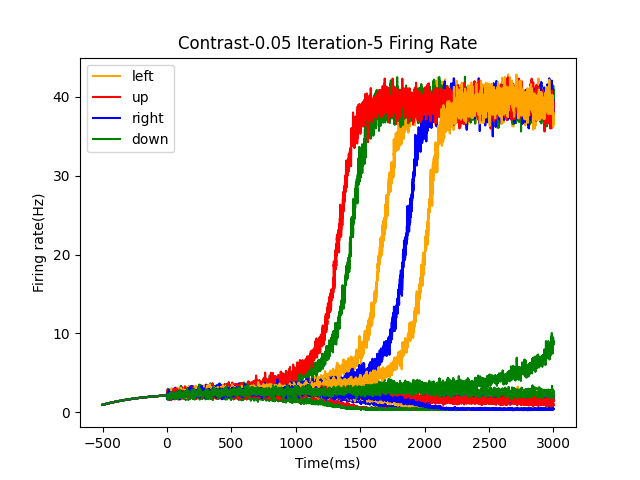
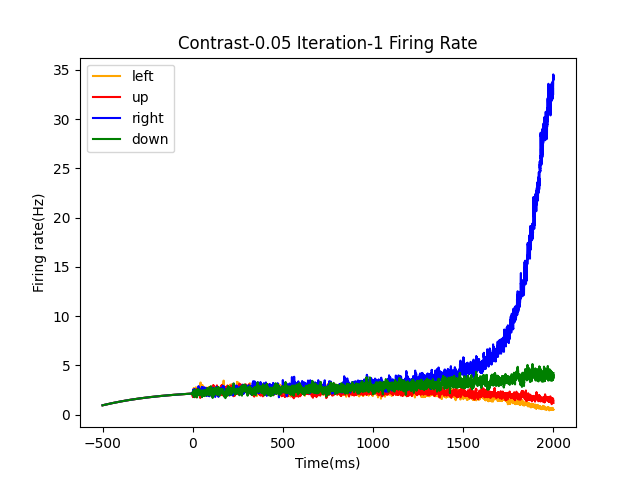
update

diff --git a/network/energy_motion_main.py b/network/energy_motion_main.py
@@ -11,8 +11,10 @@ from scipy.optimize import curve_fit
 contrast = 0.99
 sum_plot=0
 #3 decision with smoothing
-
-iter=1
+cov=True
+check=False
+check_reverse=False
+iter=100
 
 mat = scipy.io.loadmat('motionEnergy.mat')
 data= mat['motionEnergy']
@@ -51,29 +53,30 @@ def convolve(x,covk):
 def input_function(R_max, c_1,c_2,cprime):
     ratio = objective([0 + x for x in range(350)], R_max, c_1,c_2)
     right = cprime*ratio*0.9*60
-
-
-    cov_c = np.asarray([0.1, 0.097, 0.089, 0.083, 0.08, 0.076, 0.088, 0.089, 0.092, 0.1])
+    left = cprime * (1 - ratio) * 0.9 * 60
+    if cov==True:
+      cov_c = np.asarray([0.1, 0.097, 0.089, 0.083, 0.08, 0.076, 0.088, 0.089, 0.092, 0.1])
     #left = cprime * (1 - ratio) * 0.9 * 60
 
-    right = np.convolve(right, cov_c, 'same')
-    for i in range(5):
-        right[i]=right[5]
-        right[len(right)-i-1]=right[len(right)-6]
-    left = cprime * (1 - ratio) * 0.9 * 60
-    for i in range(80):
-        left[i+1]=left[1]+0.1
+      right = np.convolve(right, cov_c, 'same')
 
-    for i in range(100):
-        left[60+i]=left[200]
+      for i in range(5):
+          right[i] = right[5]
+          right[len(right) - i - 1] = right[len(right) - 6]
+
+      #for i in range(80):
+      #    left[i] = left[0]
+
+      #for i in range(100):
+      #    left[60 + i] = left[200]
 
     up = cprime*0.05*(np.zeros(left.shape)+1)*60
     down = cprime*0.05*(np.zeros(left.shape)+1)*60
-    print(right)
+    #print(right)
     return left,right,up,down
 
 hue = ['orange', 'red', 'blue', 'green']
-plt.figure
+
 def tuningc(degree, cprime):
     realdegree = 0
     r0 = 20
@@ -82,20 +85,25 @@ def tuningc(degree, cprime):
     sigma = 40
     v = r0 + cprime * (-r1 + r2 * math.e ** (-(degree - realdegree) ** 2 / (sigma ** 2)))
     return v
+
 left,right,up,down =input_function(R_max, c_1,c_2,0.05)
 #print(input_function(R_max,c_1,c_2,0.99))
-plt.plot([0 + x for x in range(350)], left, color=hue[0], label='left')
-plt.plot([0 + x for x in range(350)], up, color=hue[1],label='up')
-plt.plot([0 + x for x in range(350)], right, color=hue[2] ,label='right')
-plt.plot([0 + x for x in range(350)], down, color=hue[3] ,label='down')
-plt.xlabel('Time')
-plt.ylabel('Input')
+plt.figure
+
+fig, axs = plt.subplots(3)
+fig.set_size_inches(10.5, 18.5)
+axs[0].plot([0 + x for x in range(350)], left, color=hue[0], label='left')
+axs[0].plot([0 + x for x in range(350)], up, color=hue[1],label='up')
+axs[0].plot([0 + x for x in range(350)], right, color=hue[2] ,label='right')
+axs[0].plot([0 + x for x in range(350)], down, color=hue[3] ,label='down')
+
+axs[0].set(xlabel='x-label', ylabel='y-label')
 # plt.ylim(0,20)
 # plt.xlim(-600,750)
 # plt.text(-125, 16, 'Threshold')
-plt.legend()
-plt.savefig('./figs/input.png')
-plt.show()
+#plt.legend()
+#plt.savefig('./figs/input.png')
+#plt.show()
 
 a = 270
 b = 108
@@ -109,7 +117,7 @@ tauampa = 2 * 10 ** -3
 
 Je = 0.3103
 Jot = -0.007
-Jop = -0.048
+Jop = -0.057
 
 (J11,J12,J13,J14) = (Je,Jot,Jop,Jot)
 (J21,J22,J23,J24) = (Jot,Je,Jot,Jop)
@@ -200,7 +208,7 @@ def experiment(cprime):
                  + Inoise4[index]
 
 
-        else:
+        else :
             x1 = J11 * S1[index] + J12 * S2[index] + J13 * S3[index] + J14 * S4[index] + I0
 
             x2 = J21 * S1[index] + J22 * S2[index] + J23 * S3[index] + J24 * S4[index] + I0
@@ -250,34 +258,107 @@ def smoothing(data):
     return smoothed_data
 
 
-plt.figure
+
 hue = ['orange', 'red', 'blue', 'green']
 
 
 for cprime in [contrast]:
   if sum_plot==0:
+    from scipy.special import softmax
+
+    left_con = []
+    up_con = []
+    right_con = []
+    down_con = []
     for i in range(iter):
+
         print(i)
         result = experiment(cprime)
         result = np.asarray(result)
+
+        print(result.shape)
+        result1=result[:,:5000]
+        result2=result[:,5000:]
+
+        for idd in range(4):
+             result2[idd]=smoothing(result2[idd])
+        result=np.concatenate((result1, result2), axis=1)
+        if check==True:
+            if contrast == 0.99:
+                if result[0, 24000] > 5:
+                    continue
+        if check_reverse == True:
+            if contrast == 0.99:
+                if result[0, 24000] <=5:
+                    continue
+
+        print(result.shape)
         hue = ['orange', 'red', 'blue', 'green']
         if (i == 0):
-            plt.plot(time * 1000, result[0], color=hue[0], label='left')
-            plt.plot(time * 1000, result[1], color=hue[1], label='up')
-            plt.plot(time * 1000, result[2], color=hue[2], label='right')
-            plt.plot(time * 1000, result[3], color=hue[3], label='down')
+            axs[1].plot(time * 1000, result[0], color=hue[0], label='left')
+            axs[1].plot(time * 1000, result[1], color=hue[1], label='up')
+            axs[1].plot(time * 1000, result[2], color=hue[2], label='right')
+            axs[1].plot(time * 1000, result[3], color=hue[3], label='down')
         else:
 
-            plt.plot(time * 1000, result[0], color=hue[0])
-            plt.plot(time * 1000, result[1], color=hue[1])
-            plt.plot(time * 1000, result[2], color=hue[2])
-            plt.plot(time * 1000, result[3], color=hue[3])
-    plt.xlabel('Time(ms)')
-    plt.ylabel('Firing rate(Hz)')
-    plt.title('Contrast-' + str(cprime) + ' Iteration-' + str(iter) + ' Firing Rate')
+            axs[1].plot(time * 1000, result[0], color=hue[0])
+            axs[1].plot(time * 1000, result[1], color=hue[1])
+            axs[1].plot(time * 1000, result[2], color=hue[2])
+            axs[1].plot(time * 1000, result[3], color=hue[3])
+        result_softmax = softmax(result, axis=0)
+
+        left_con.append(result_softmax[0])
+        up_con.append(result_softmax[1])
+        right_con.append(result_softmax[2])
+        down_con.append(result_softmax[3])
+
+
+    #plt.xlabel('Time(ms)')
+    #plt.ylabel('Firing rate(Hz)')
+    axs[1].set(xlabel='Time(ms)', ylabel='Time(ms)')
+    #plt.title('Contrast-' + str(cprime) + ' Iteration-' + str(iter) + ' Firing Rate')
     # plt.text(-125, 16, 'Threshold')
+
+
+
+
+
+
+
+    left_con = np.asarray(left_con)
+    left_mean = left_con.mean(axis=0)
+    left_var = left_con.var(axis=0)
+
+    right_con = np.asarray(right_con)
+    right_mean = right_con.mean(axis=0)
+    right_var = right_con.var(axis=0)
+
+    up_con = np.asarray(up_con)
+    up_mean = up_con.mean(axis=0)
+    up_var = up_con.var(axis=0)
+
+    down_con = np.asarray(down_con)
+    down_mean = down_con.mean(axis=0)
+    down_var = down_con.var(axis=0)
+    axs[2].plot(time * 1000, left_mean, color=hue[0], label='left')
+    axs[2].plot(time * 1000, up_mean, color=hue[1], label='up')
+    axs[2].plot(time * 1000, right_mean, color=hue[2], label='right')
+    axs[2].plot(time * 1000, down_mean, color=hue[3], label='down')
+    axs[2].fill_between(time * 1000, left_mean - left_var, left_mean + left_var, color=hue[0], alpha=0.3)
+    axs[2].fill_between(time * 1000, up_mean - up_var, up_mean + up_var, color=hue[1], alpha=0.3)
+    axs[2].fill_between(time * 1000, right_mean - right_var, right_mean + right_var, color=hue[2], alpha=0.3)
+    axs[2].fill_between(time * 1000, down_mean - down_var, down_mean + down_var, color=hue[3], alpha=0.3)
+    # plt.plot(time * 1000, 15 * np.ones(steps))
+    #.xlabel('Time(ms)')
+    #plt.ylabel('Pro')
+    #axs[2].set(xlabel='Time(ms)', ylabel='Time(ms)')
+    #plt.title('Contrast-' + str(cprime) + ' Iteration-' + str(iter) + ' Decision Making(Smoothing)')
+    # plt.text(-125, 16, 'Threshold')
+    #plt.legend()
+    #plt.savefig('./figs/psychophysics_' + str(cprime) + '_smoothing.png')
+    #plt.show()
     plt.legend()
-    plt.savefig('./figs/firing_rate_' + str(cprime) + '.png')
+    plt.savefig('./figs/allthree_' + str(cprime) + '.png')
     plt.show()
   elif sum_plot== 1:
     for i in range(iter):
